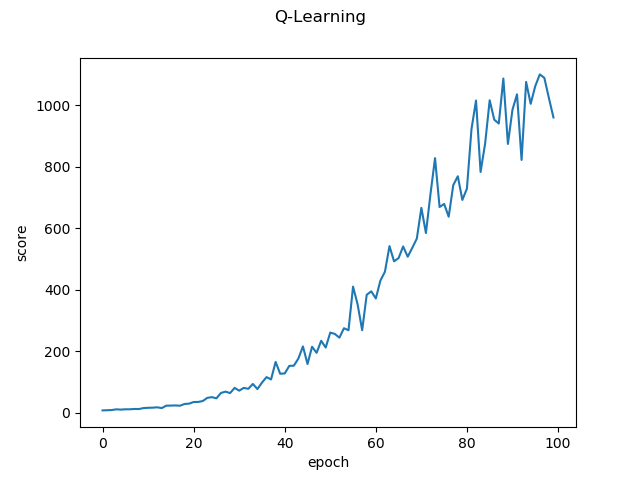
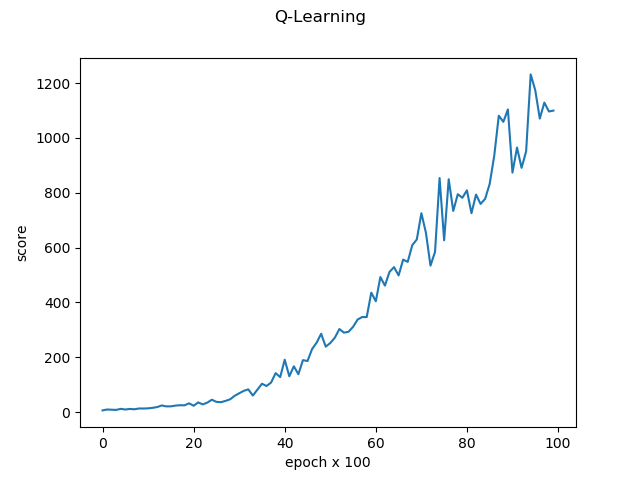
Updated Images

diff --git a/Q-Learning/pacman.py b/Q-Learning/pacman.py
@@ -291,7 +291,7 @@ def qLearning():
     fig = plt.figure()
     plt.plot(score_list)
     fig.suptitle('Q-Learning')
-    plt.xlabel('epoch')
+    plt.xlabel('epoch x 100')
     plt.ylabel('score')
     # fig.savefig('score.png')
     # plt.ylim(-2,10)
@@ -356,7 +356,7 @@ def sarsa():
     fig = plt.figure()
     plt.plot(score_list)
     fig.suptitle('SARSA')
-    plt.xlabel('epoch')
+    plt.xlabel('epoch x 100')
     plt.ylabel('score')
     # fig.savefig('score.png')
     # plt.ylim(-2,10)

diff --git a/Q-Learning/README.md b/Q-Learning/README.md
@@ -24,3 +24,11 @@
 ![pacman_qlearning](https://github.com/sagarjinde/Reinforcement-Learning-Project/blob/master/Q-Learning/figs/pac-man_qlearning.png)
 
 ![pacman_sarsa](https://github.com/sagarjinde/Reinforcement-Learning-Project/blob/master/Q-Learning/figs/pac-man_sarsa.png)
+
+After `10000 epochs`, pacman scored around `1200 points` on average.
+
+Q-Learning and SARSA gave almost similar performance. But on multiple runs of the code, it was observed that Q-Learning 
+performed well consistantly whereas SARSA had some variance.
+
+### Running the code
+Type `python pacman.py`
